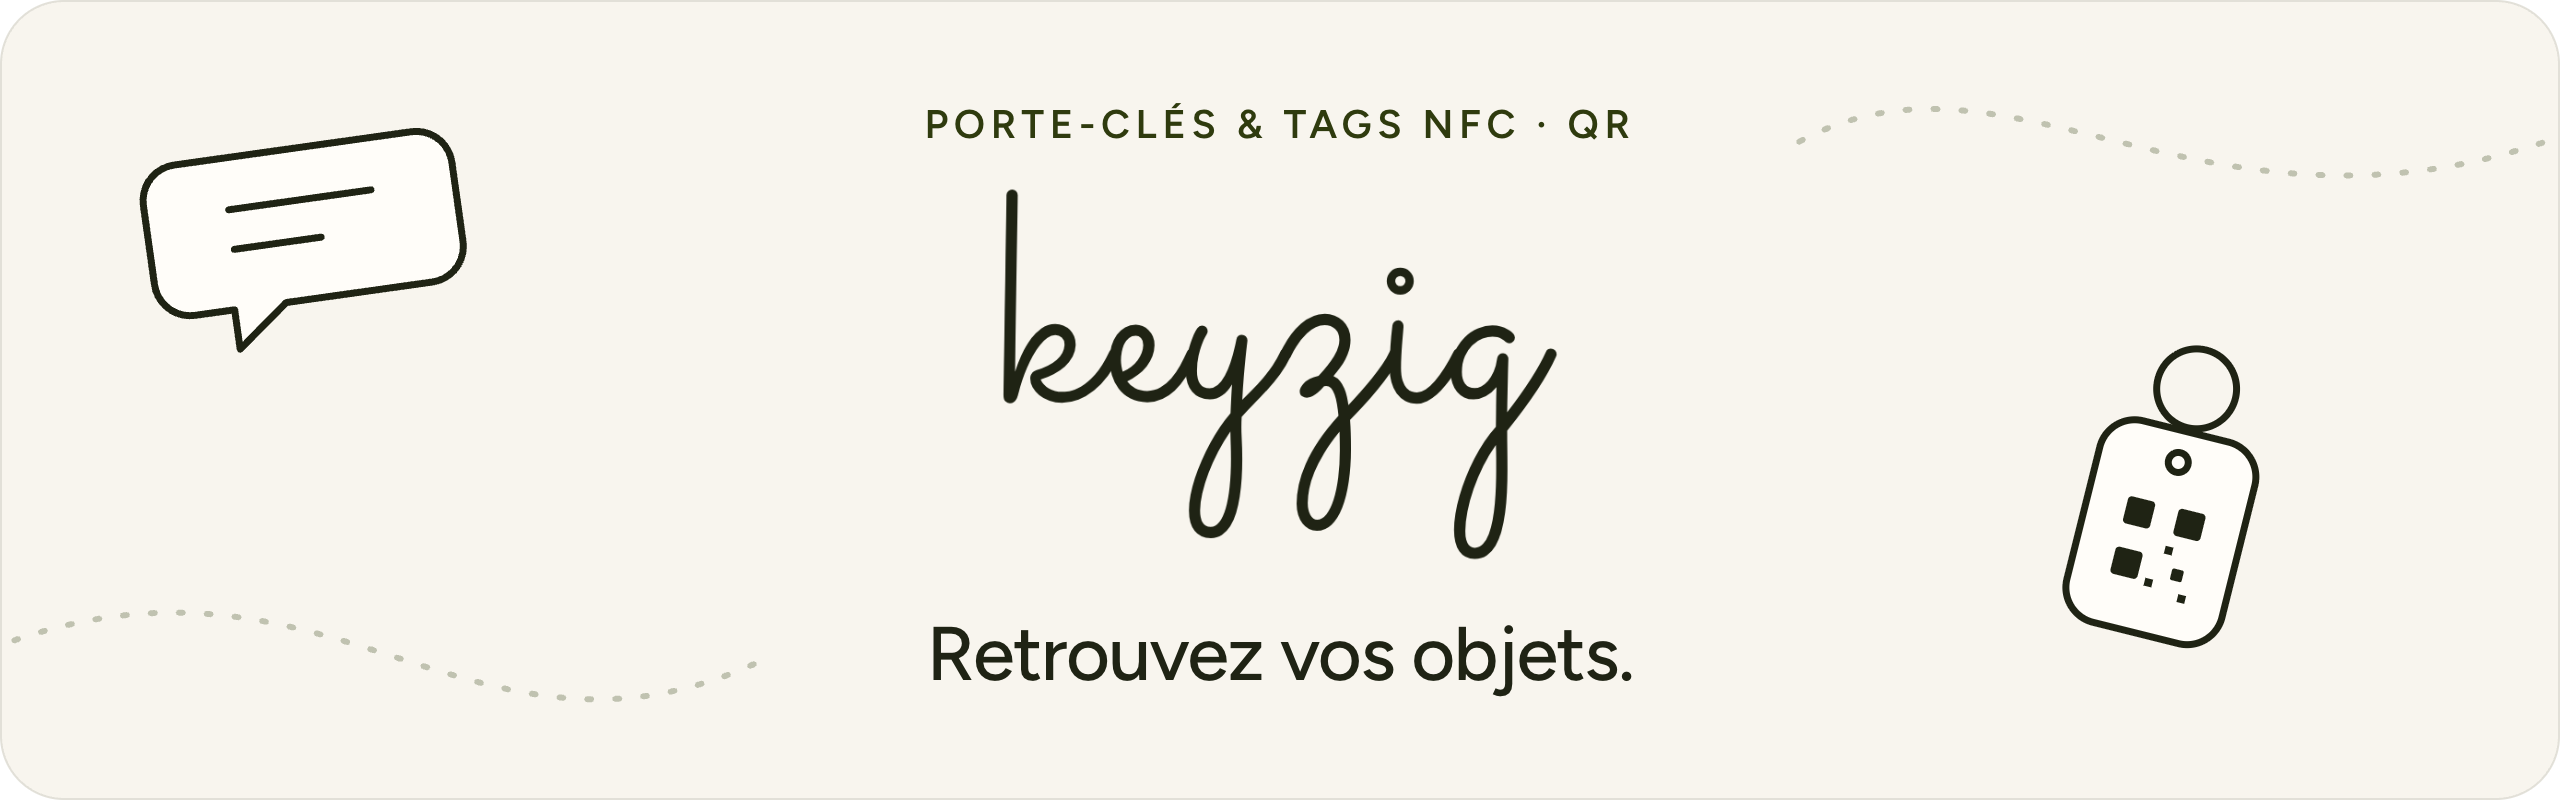
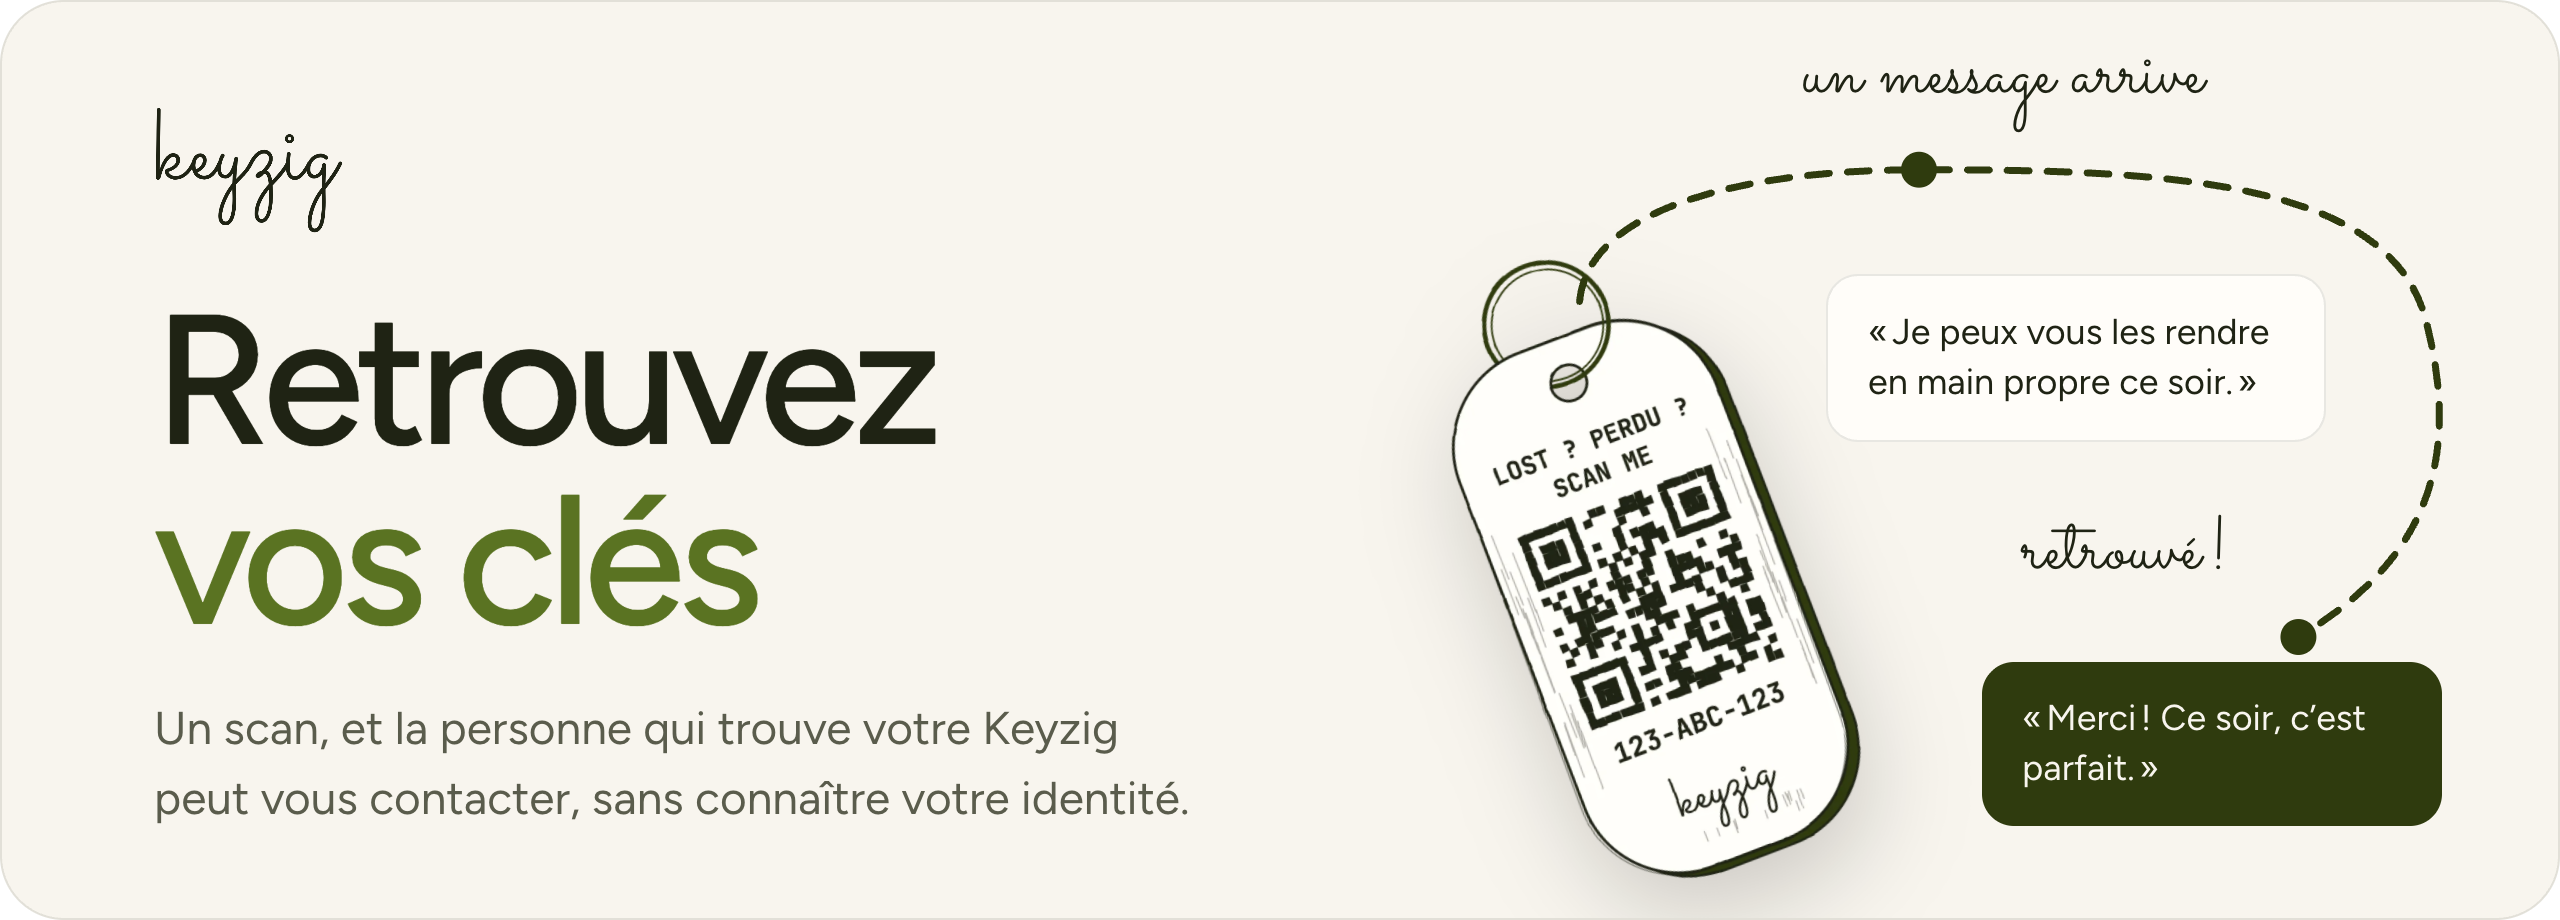
Refait la bannière avec les visuels du site
Reprend l'illustration du porte-clés, le fil en pointillés et les bulles
de l'image de partage du site ; l'étape 1 utilise aussi le vrai dessin du tag.

diff --git a/profile/README.md b/profile/README.md
@@ -4,7 +4,7 @@
   <picture>
     <source media="(prefers-color-scheme: dark)" srcset="assets/banner-dark.png">
     <source media="(prefers-color-scheme: light)" srcset="assets/banner-light.png">
-    <img src="assets/banner-light.png" alt="keyzig · Porte-clés et tags NFC / QR · Retrouvez vos objets." width="100%">
+    <img src="assets/banner-light.png" alt="keyzig · Retrouvez vos clés. Le porte-clés Keyzig : un scan, un message arrive, retrouvé !" width="100%">
   </picture>
 </a>
 
